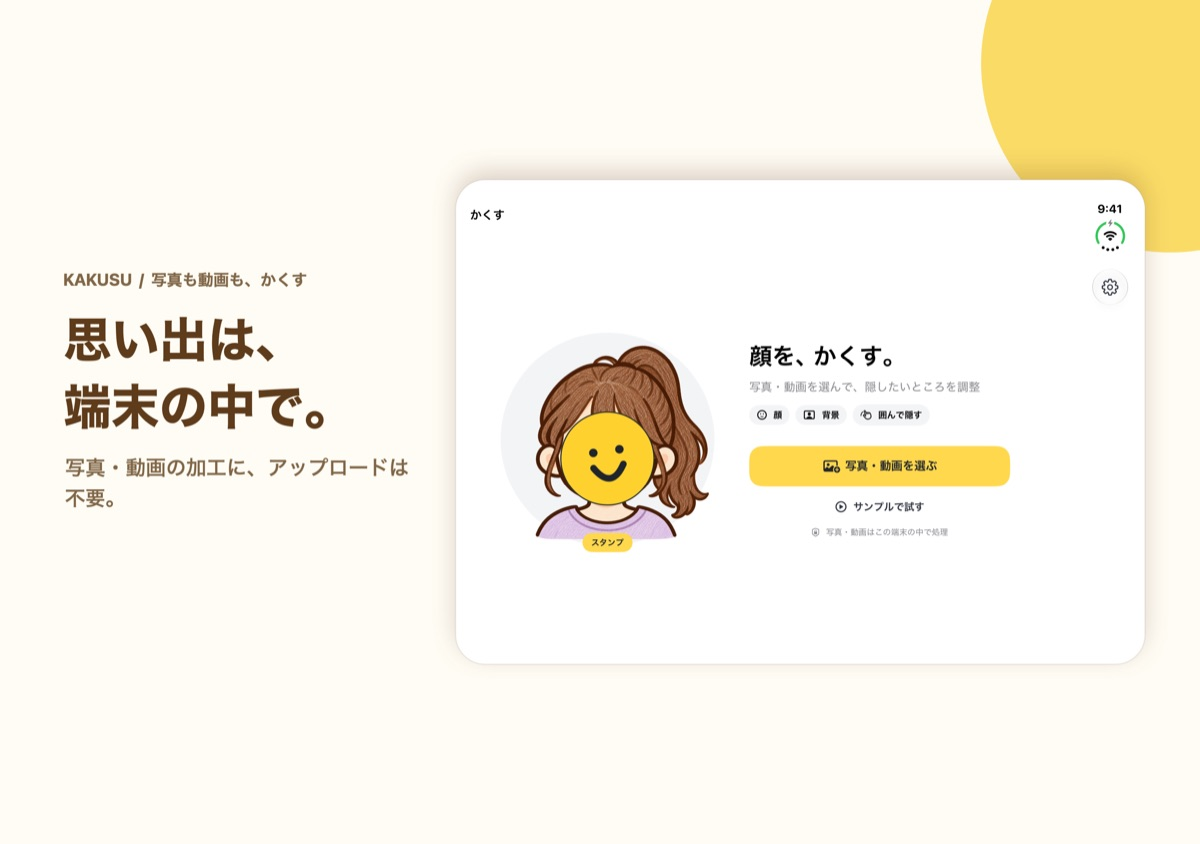
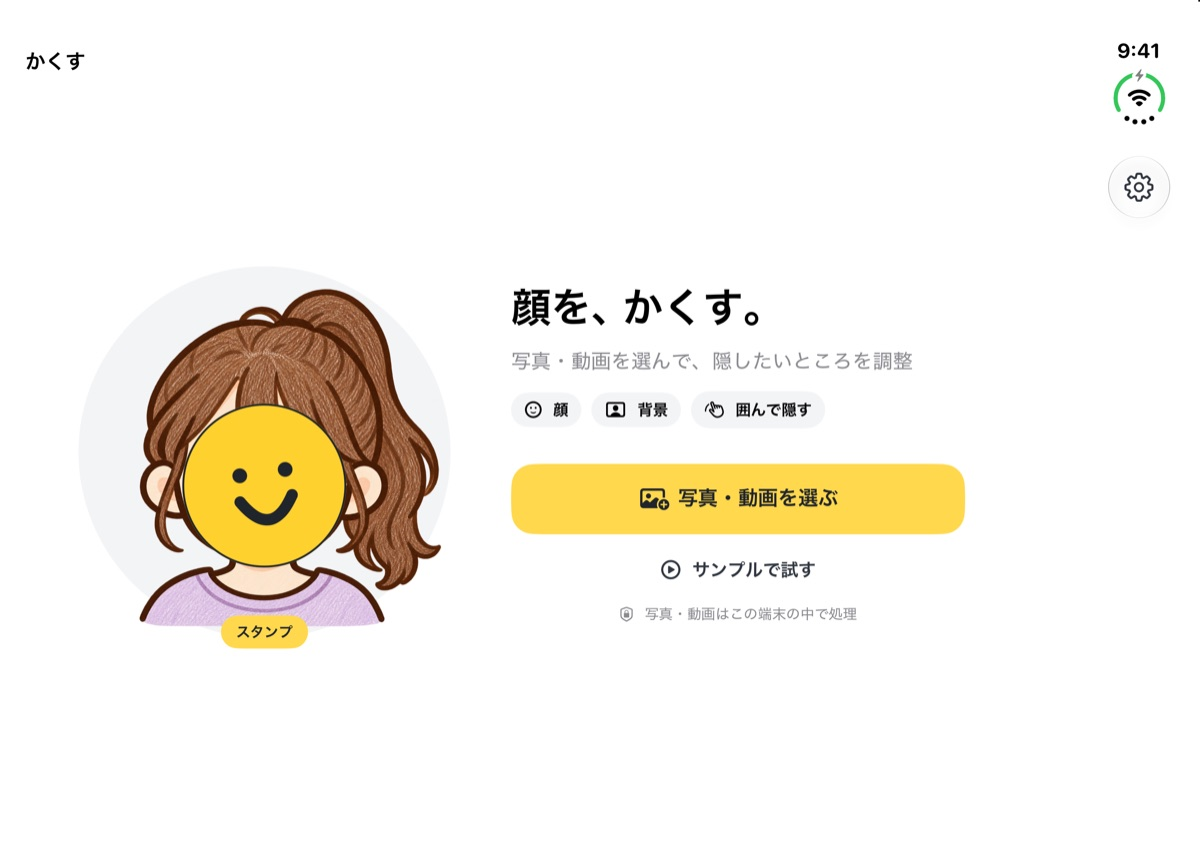
content(kakusu): use plain in-app screenshots in the body instead of store artwork

Changed region(s): [[0.0308, 0.0, 1.0, 0.7701], [0.0, 0.0616, 0.0617, 0.0924]]

diff --git a/components/AppShots.tsx b/components/AppShots.tsx
@@ -5,9 +5,9 @@ import clsx from 'clsx';
 
 /** 本文に載せるスクリーンショットの種類と、書き出したときのピクセル数 */
 const kinds = {
-  phone: { width: 660, height: 1434, className: 'max-w-[280px] min-w-0 flex-1' },
-  ipad: { width: 1032, height: 1376, className: 'w-full max-w-[440px]' },
-  duo: { width: 1200, height: 844, className: 'w-full' },
+  phone: { width: 660, height: 1434, className: 'max-w-[280px] min-w-0 flex-1 rounded-[28px]' },
+  ipad: { width: 1032, height: 1376, className: 'w-full max-w-[440px] rounded-[1.25rem]' },
+  duo: { width: 1200, height: 844, className: 'w-full rounded-[1.25rem]' },
 } as const;
 
 export type ShotKind = keyof typeof kinds;
@@ -24,7 +24,8 @@ export function Shot({ src, alt, kind = 'phone' }: { src: string; alt: string; k
       width={width}
       height={height}
       sizes={kind === 'phone' ? '280px' : '(min-width: 768px) 680px, 100vw'}
-      className={clsx('m-0 h-auto rounded-[1.25rem]', className)}
+      // 白い画面がカードに溶けないように、アイコンと同じ薄い枠を付ける
+      className={clsx('app-icon m-0 h-auto', className)}
     />
   );
 }
